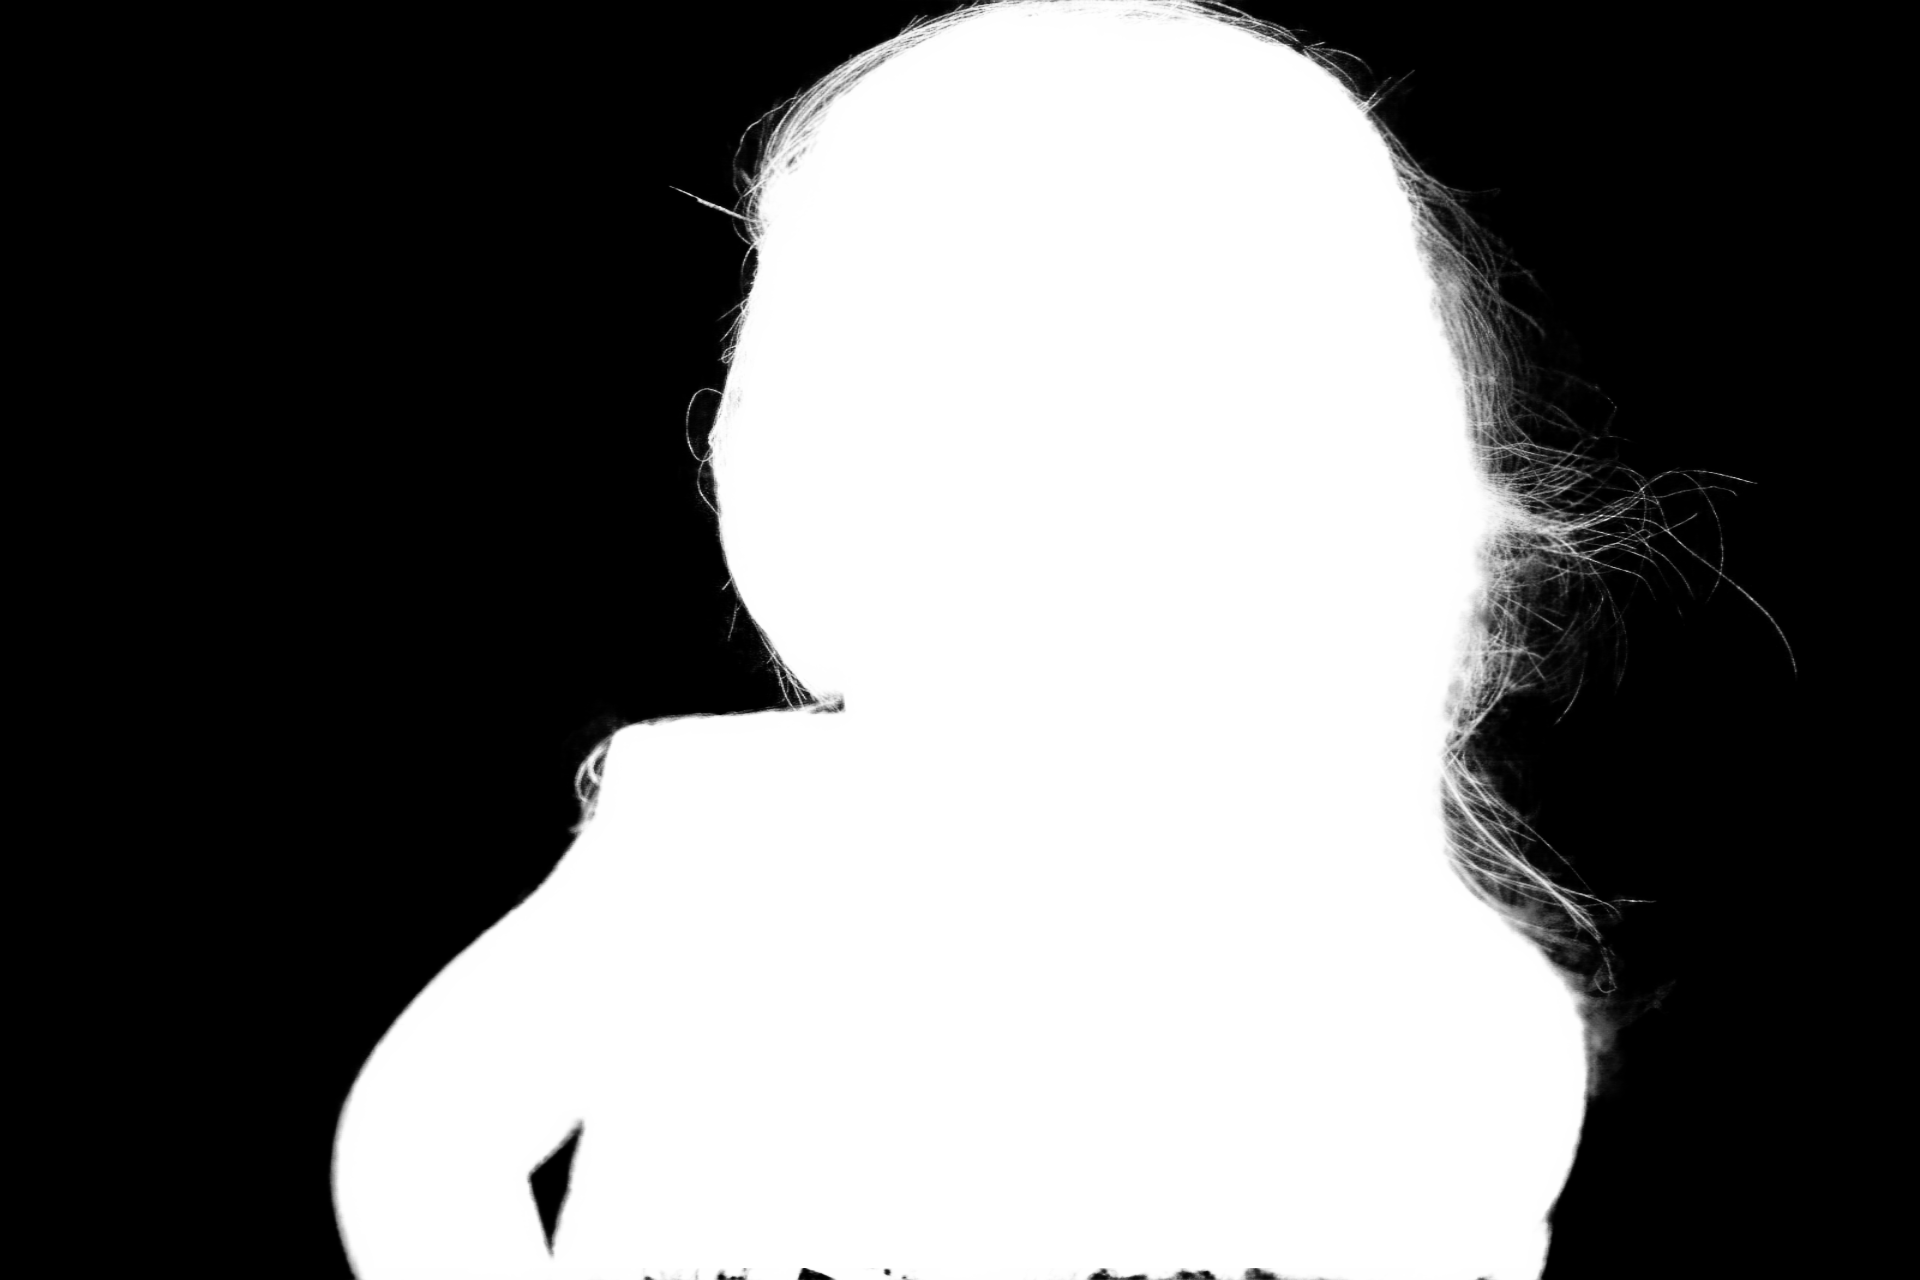
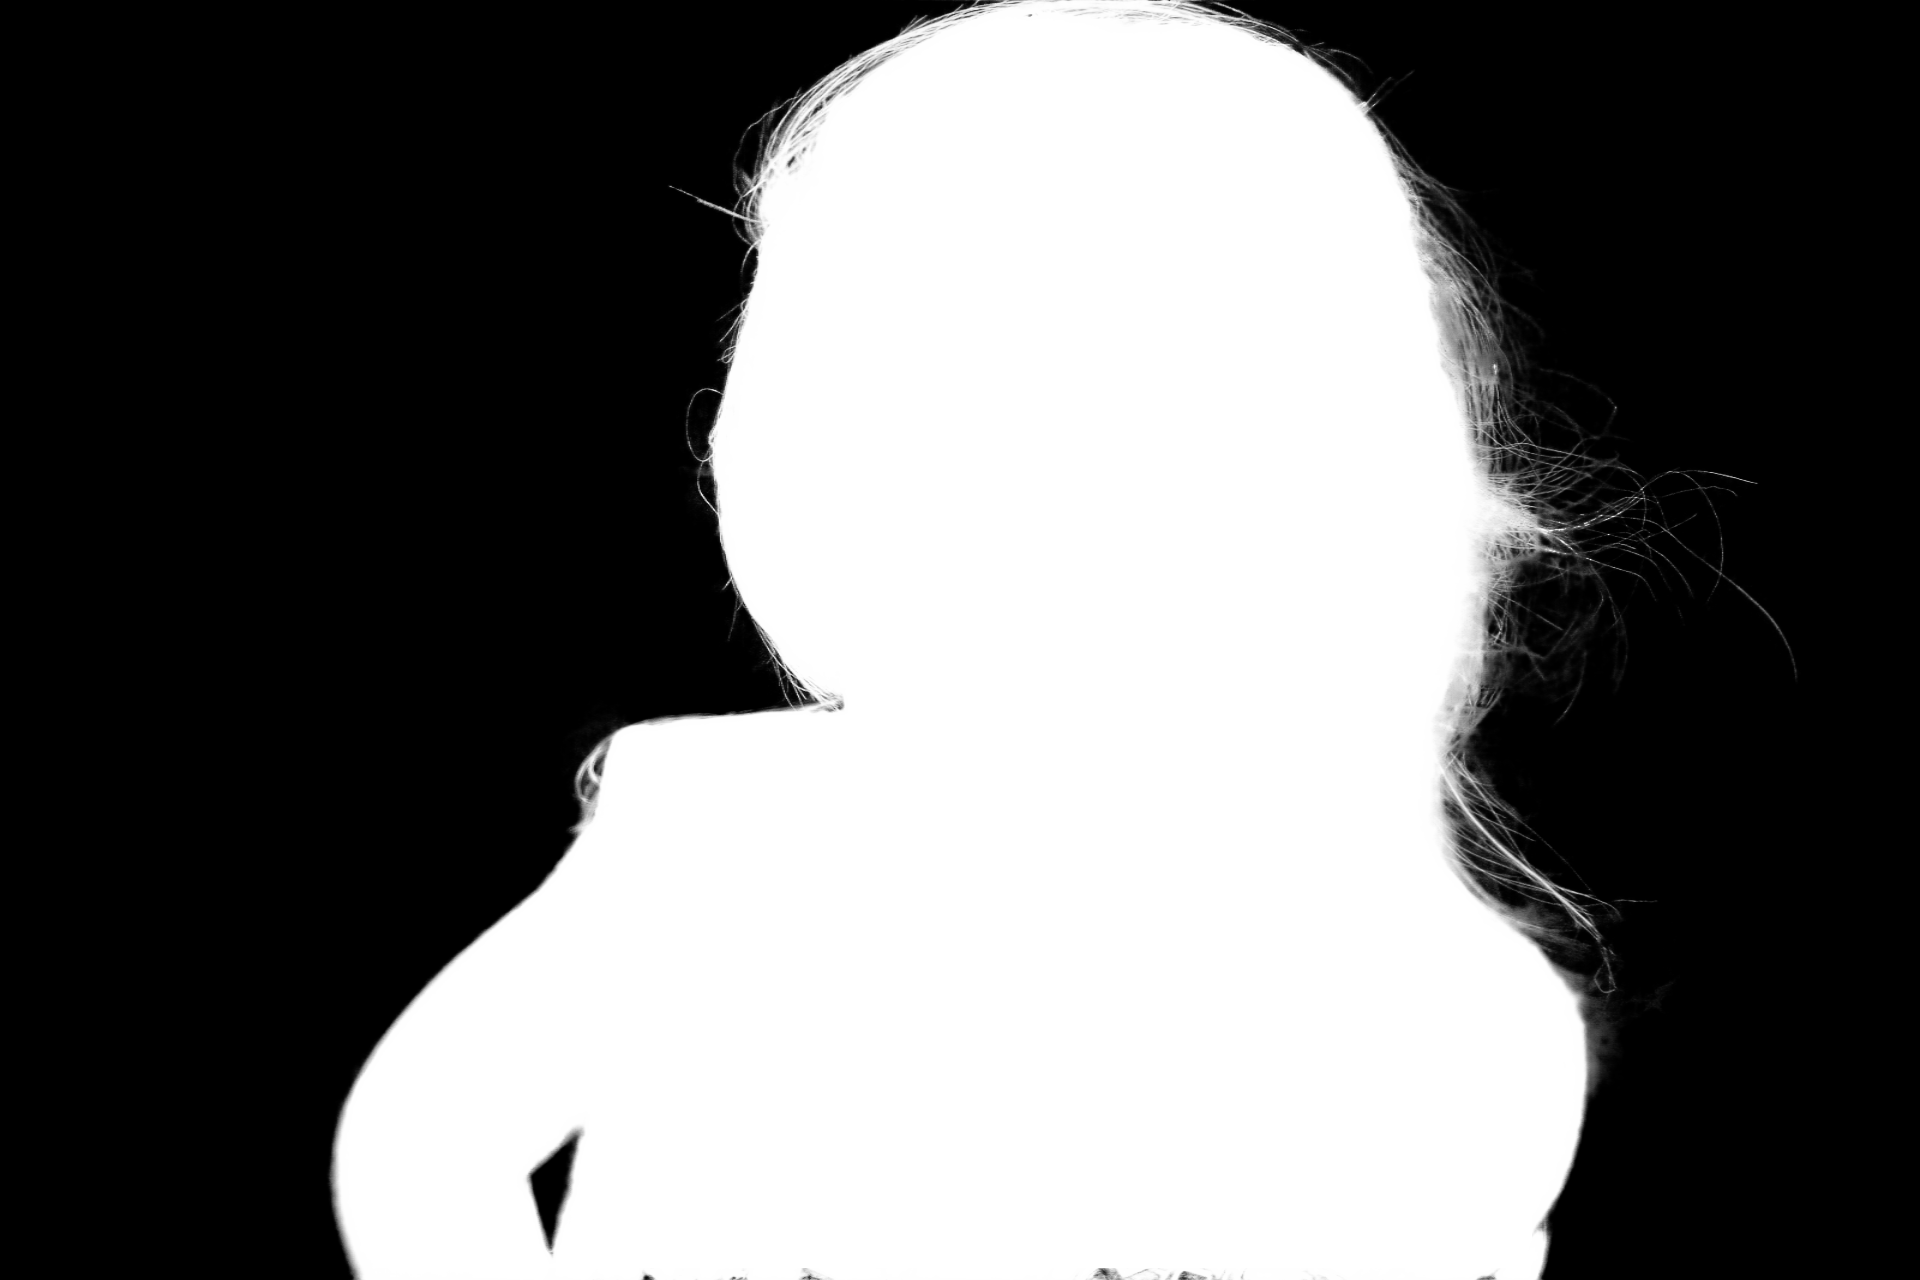
Add Skip Connection

diff --git a/core/deploy.py b/core/deploy.py
@@ -72,15 +72,15 @@ def inference_once(args, model, scale_img, scale_trimap, aligned=True):
     # second, x-mean/std and HWC to CHW
     tensor_img = normalize(scale_img_rgb).unsqueeze(0)
 
-    scale_grad = compute_gradient(scale_img)
+    #scale_grad = compute_gradient(scale_img)
     #tensor_img = torch.from_numpy(scale_img.astype(np.float32)[np.newaxis, :, :, :]).permute(0, 3, 1, 2)
     tensor_trimap = torch.from_numpy(scale_trimap.astype(np.float32)[np.newaxis, np.newaxis, :, :])
-    tensor_grad = torch.from_numpy(scale_grad.astype(np.float32)[np.newaxis, np.newaxis, :, :])
+    #tensor_grad = torch.from_numpy(scale_grad.astype(np.float32)[np.newaxis, np.newaxis, :, :])
 
     if args.cuda:
         tensor_img = tensor_img.cuda()
         tensor_trimap = tensor_trimap.cuda()
-        tensor_grad = tensor_grad.cuda()
+        #tensor_grad = tensor_grad.cuda()
     #print('Img Shape:{} Trimap Shape:{}'.format(img.shape, trimap.shape))
 
     input_t = torch.cat((tensor_img, tensor_trimap / 255.), 1)
@@ -238,22 +238,6 @@ def main():
             assert(os.path.exists(alpha_name))
             alpha = cv2.imread(alpha_name)[:, :, 0] / 255.
             assert(alpha.shape == origin_pred_mattes.shape)
-
-            #x1 = (alpha[trimap == 255] == 1.0).sum() # x3
-            #x2 = (alpha[trimap == 0] == 0.0).sum() # x5
-            #x3 = (trimap == 255).sum()
-            #x4 = (trimap == 128).sum()
-            #x5 = (trimap == 0).sum()
-            #x6 = trimap.size # sum(x3,x4,x5)
-            #x7 = (alpha[trimap == 255] < 1.0).sum() # 0
-            #x8 = (alpha[trimap == 0] > 0).sum() #
-
-            #print(x1, x2, x3, x4, x5, x6, x7, x8)
-            #assert(x1 == x3)
-            #assert(x2 == x5)
-            #assert(x6 == x3 + x4 + x5)
-            #assert(x7 == 0)
-            #assert(x8 == 0)
 
             mse_diff = ((origin_pred_mattes - alpha) ** 2).sum() / pixel
             sad_diff = np.abs(origin_pred_mattes - alpha).sum()

diff --git a/core/net.py b/core/net.py
@@ -84,22 +84,27 @@ class VGG16(nn.Module):
 
         # Stage 5d
         x5d = F.max_unpool2d(x61d,id5, kernel_size=2, stride=2)
+        x5d = x5d + x53
         x51d = F.relu(self.deconv5_1(x5d))
 
         # Stage 4d
         x4d = F.max_unpool2d(x51d, id4, kernel_size=2, stride=2)
+        x4d = x4d + x43
         x41d = F.relu(self.deconv4_1(x4d))
 
         # Stage 3d
         x3d = F.max_unpool2d(x41d, id3, kernel_size=2, stride=2)
+        x3d = x3d + x33
         x31d = F.relu(self.deconv3_1(x3d))
 
         # Stage 2d
         x2d = F.max_unpool2d(x31d, id2, kernel_size=2, stride=2)
+        x2d = x2d + x22
         x21d = F.relu(self.deconv2_1(x2d))
 
         # Stage 1d
         x1d = F.max_unpool2d(x21d, id1, kernel_size=2, stride=2)
+        x1d = x1d + x12
         x12d = F.relu(self.deconv1_1(x1d))
 
         # Should add sigmoid? github repo add so.

diff --git a/core/demo.py b/core/demo.py
@@ -32,7 +32,7 @@ if __name__ == "__main__":
     parser = argparse.ArgumentParser()
     args = parser.parse_args()
     args.cuda = True
-    args.resume = "model/stage1_sad_57.1.pth"
+    args.resume = "model/stage1_skip_sad_52.9.pth"
     args.stage = 1
     args.crop_or_resize = "whole"
     args.max_size = 1600
